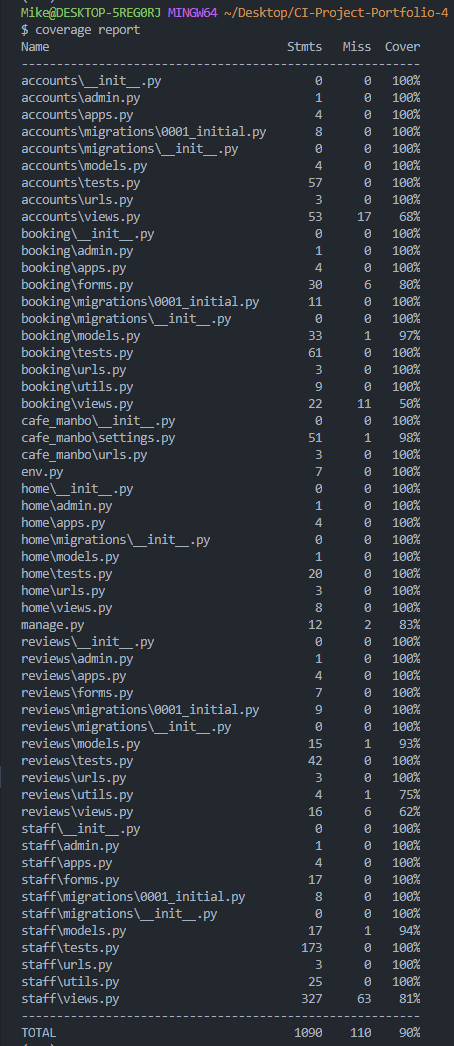
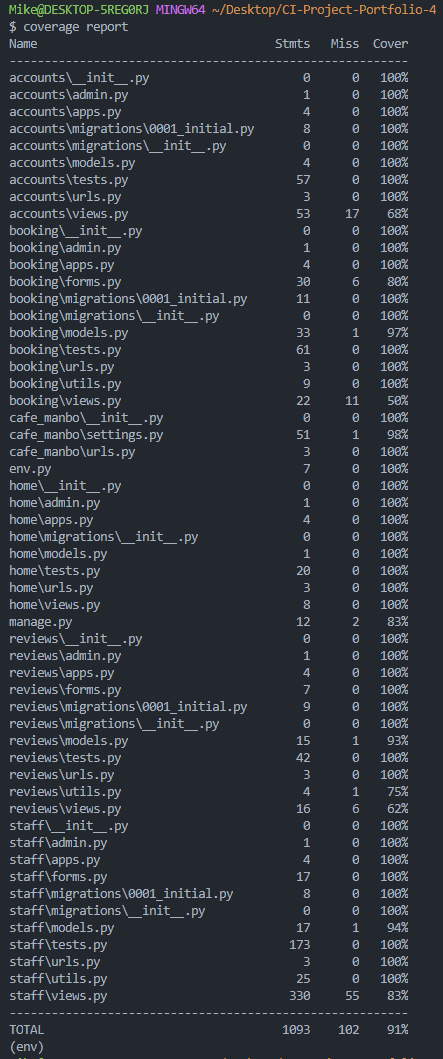
Update coverage report image after achieving 91% coverage

Changed region(s): [[0.0, 0.0, 0.9977, 1.0], [0.4108, 0.4895, 0.4695, 0.5201]]

diff --git a/README.md b/README.md
@@ -741,7 +741,7 @@ As mentioned above, the website for Cafe Manbo has been designed to be a fully e
 * ## Automated Testing
     * During this project I have found the benefit of automated testing to be extremely beneficial. Automated testing as highlighted many minor discrepancies that would have been missed had it not been highlighted when conducting automated testing.
 
-    * I currently have 34 individual tests which provide 90% coverage as shown in the below image.
+    * I currently have 34 individual tests which provide 91% coverage as shown in the below image.
 
     ![Automated Tests Image](static/images/readme-images/automated-tests-image.png)
 
